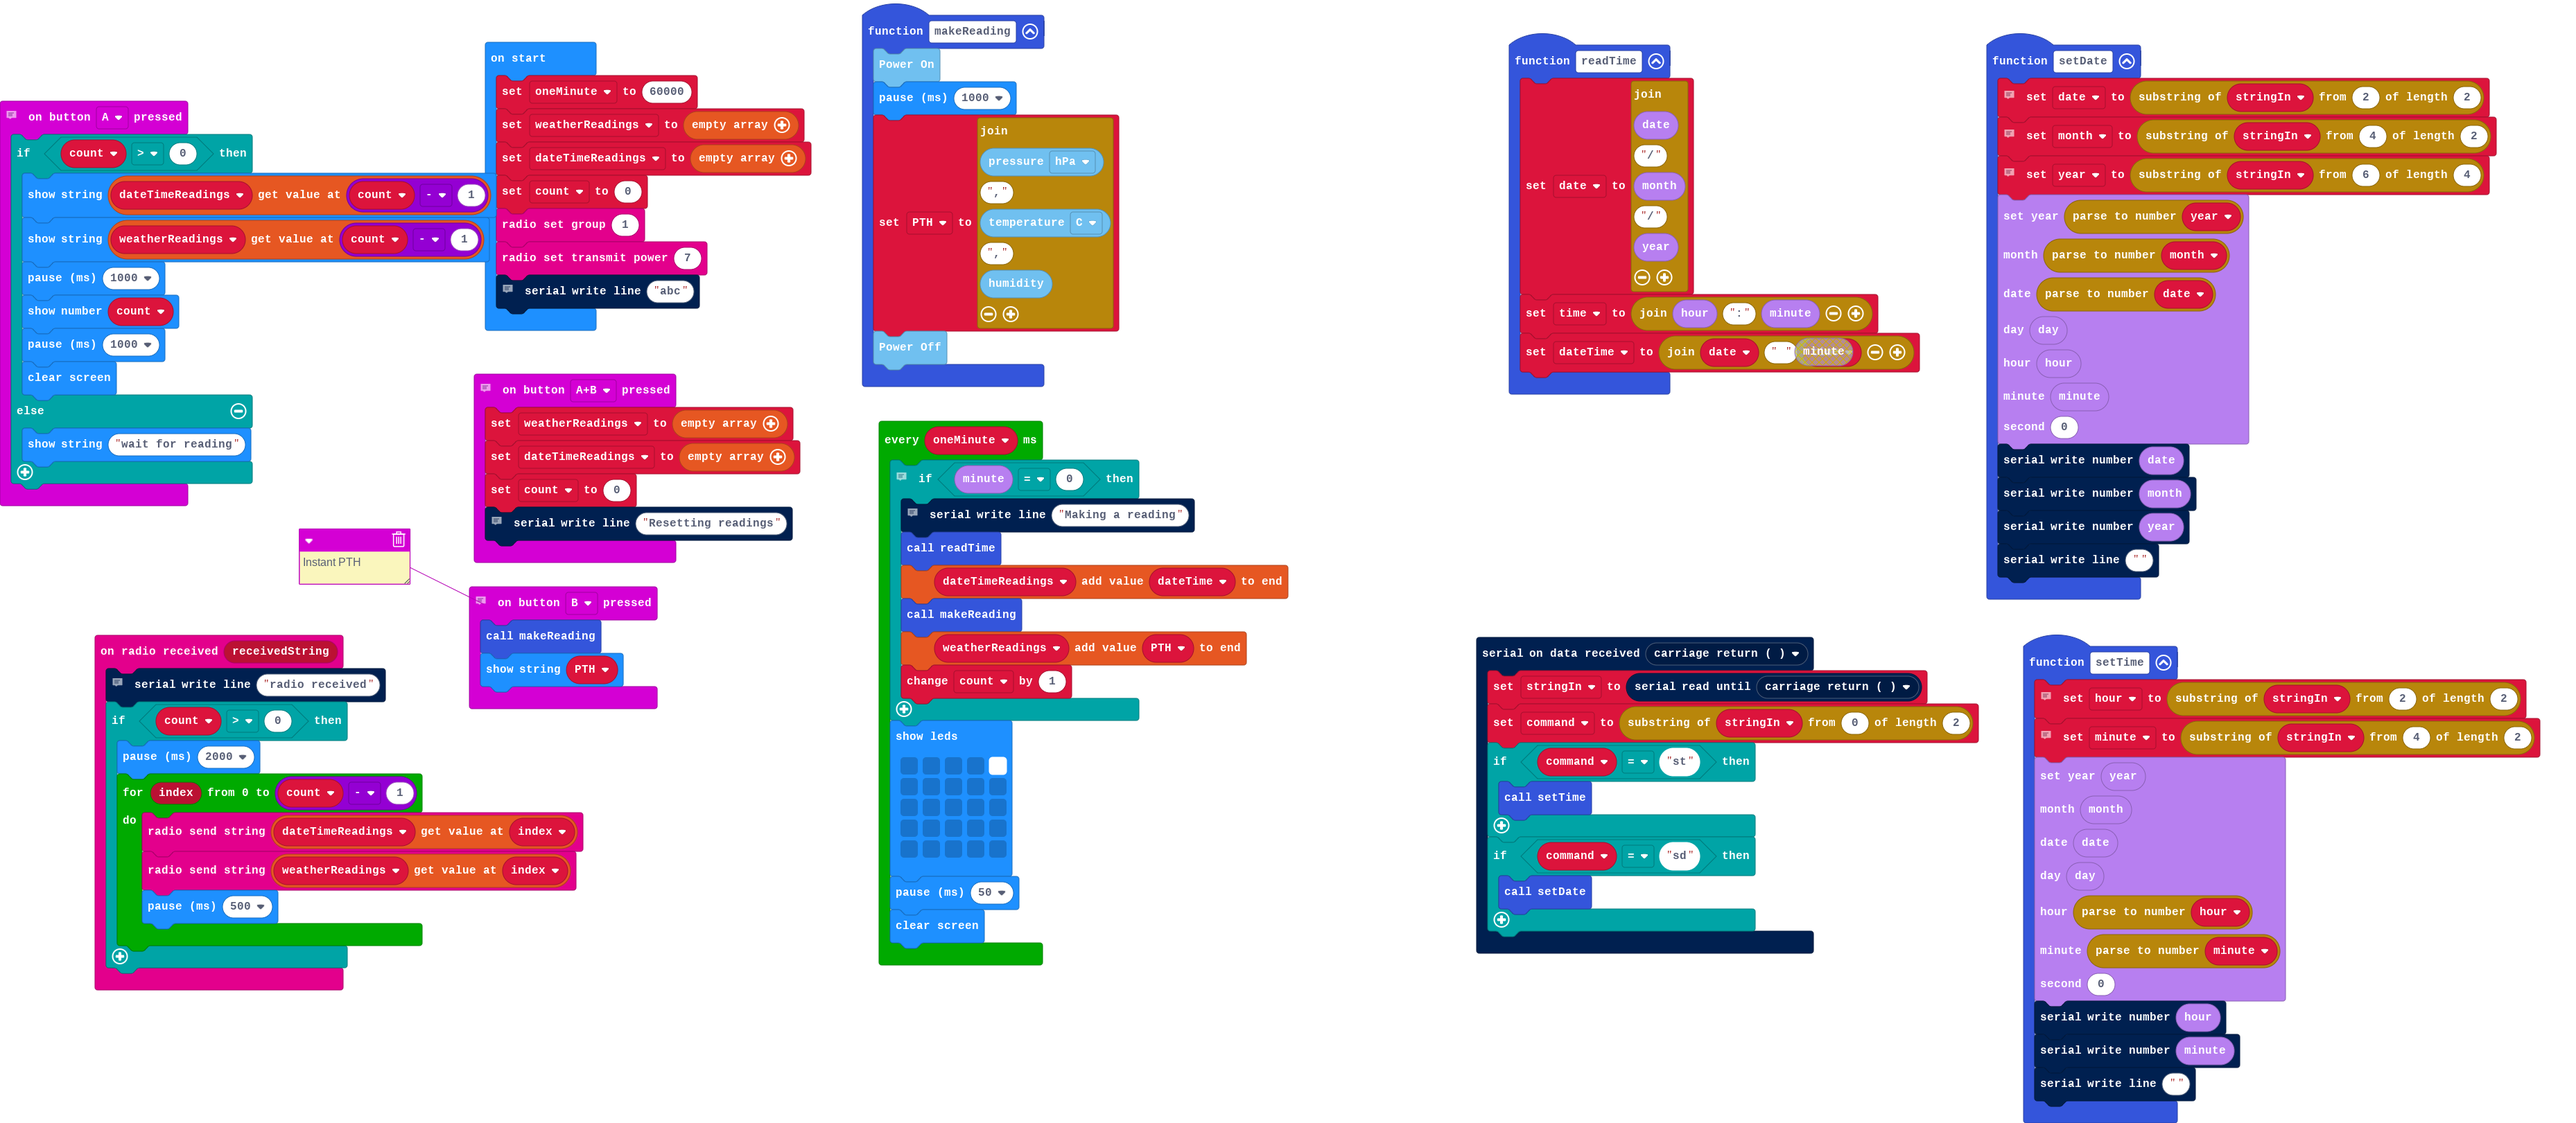
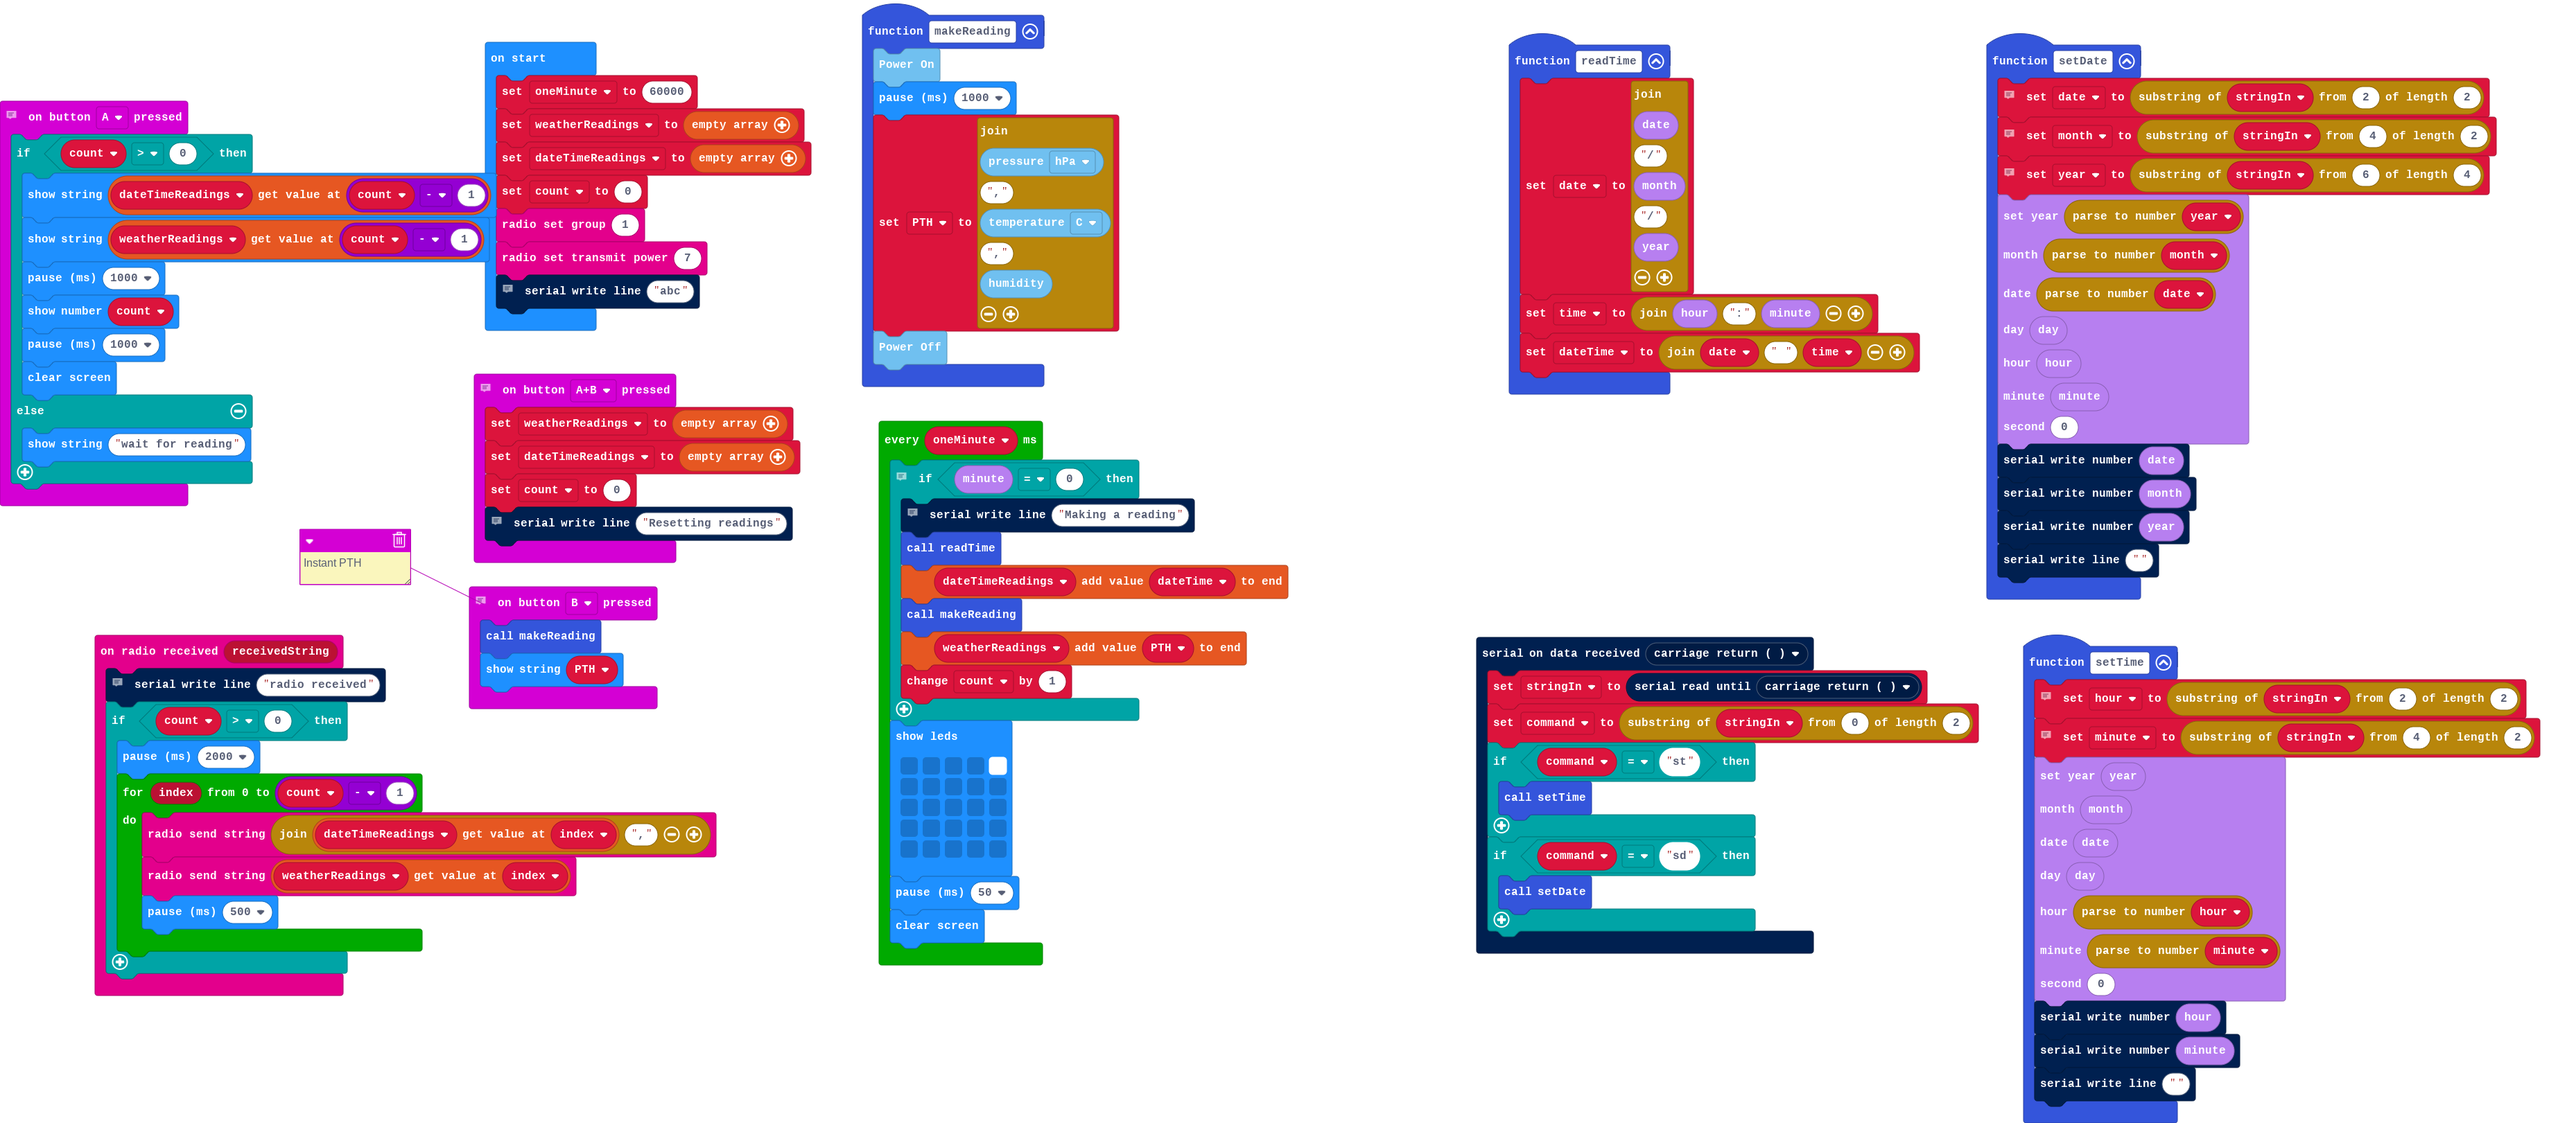
add comma after dateTime

Changed region(s): [[0.0312, 0.7094, 0.2809, 0.8945], [0.6868, 0.2776, 0.718, 0.3393], [0.1249, 0.4627, 0.1561, 0.5244]]

diff --git a/main.ts b/main.ts
@@ -75,7 +75,7 @@ radio.onReceivedString(function (receivedString) {
     if (count > 0) {
         basic.pause(2000)
         for (let index = 0; index <= count - 1; index++) {
-            radio.sendString("" + (dateTimeReadings[index]))
+            radio.sendString("" + dateTimeReadings[index] + ",")
             radio.sendString("" + (weatherReadings[index]))
             basic.pause(500)
         }
